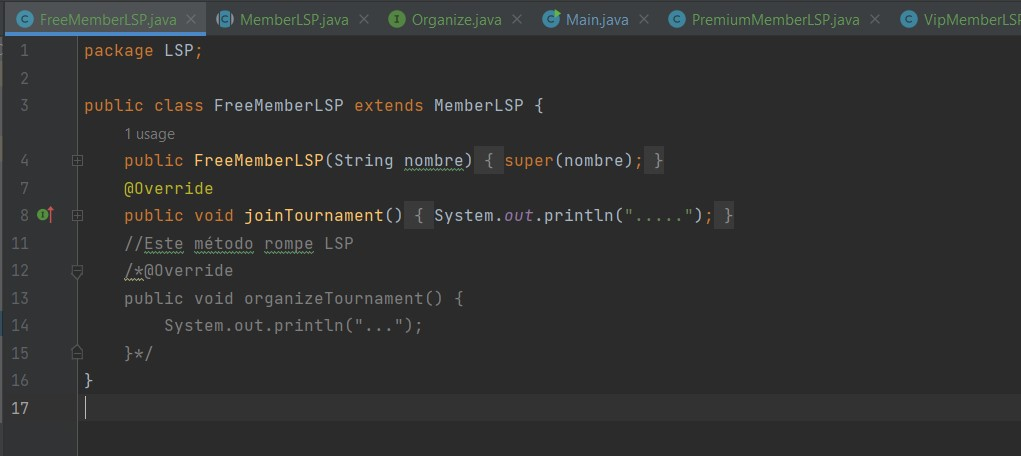
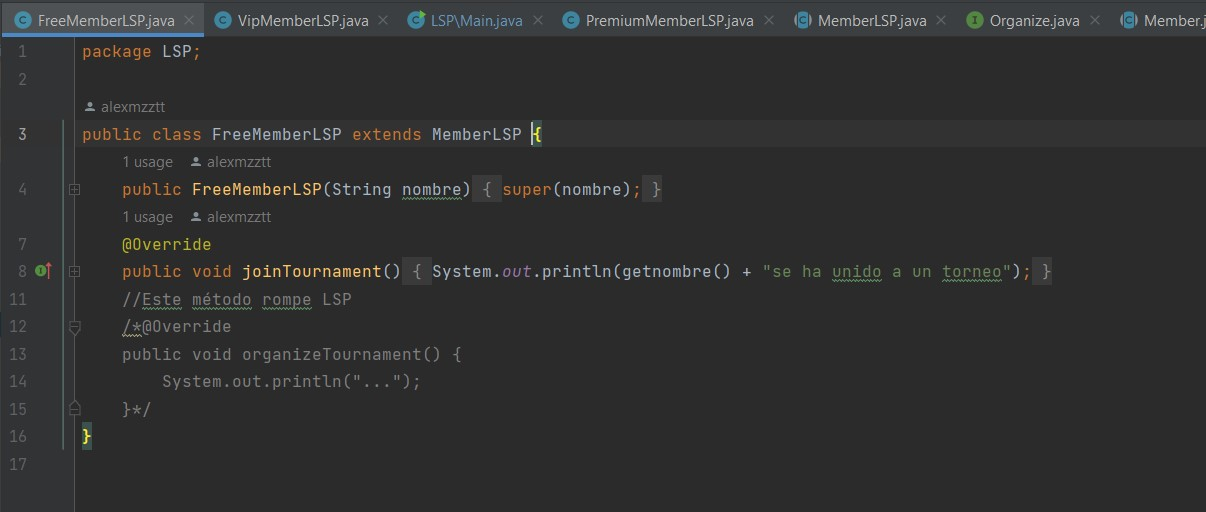
update

diff --git a/Actividades/ExamenFinal-3S2/Pregunta1/src/main/java/LSP/PremiumMemberLSP.java b/Actividades/ExamenFinal-3S2/Pregunta1/src/main/java/LSP/PremiumMemberLSP.java
@@ -7,11 +7,11 @@ public class PremiumMemberLSP extends MemberLSP implements Organize {
 
     @Override
     public void joinTournament() {
-        System.out.println(getnombre() + "se ha unido a un torneo");
+        System.out.println(getnombre() + "se puede unir a un torneo");
     }
 
     @Override
     public void organizeTournament() {
-        System.out.println(getnombre() + "ha organizado un torneo");
+        System.out.println(getnombre() + "puede organizar un torneo");
     }
 }

diff --git a/Actividades/ExamenFinal-3S2/Pregunta1/src/main/java/LSP/VipMemberLSP.java b/Actividades/ExamenFinal-3S2/Pregunta1/src/main/java/LSP/VipMemberLSP.java
@@ -7,11 +7,11 @@ public class VipMemberLSP extends MemberLSP implements Organize {
 
     @Override
     public void joinTournament() {
-        System.out.println(getnombre() + "se ha unido a un torneo");
+        System.out.println(getnombre() + "se puede unir a un torneo");
     }
 
     @Override
     public void organizeTournament() {
-        System.out.println(getnombre() + "ha organizado un torneo");
+        System.out.println(getnombre() + "puede organizar un torneo");
     }
 }

diff --git a/Actividades/ExamenFinal-3S2/Pregunta1/src/main/java/LSP/Main.java b/Actividades/ExamenFinal-3S2/Pregunta1/src/main/java/LSP/Main.java
@@ -15,7 +15,7 @@ public class Main {
 
         }
 
-        List<Organize> member = List.of(
+        List<Organize> members = List.of(
                 new PremiumMemberLSP("Abejita Azul"),
                 new VipMemberLSP("Kaperucita Feliz")
         );
@@ -32,3 +32,10 @@ public class Main {
 
 
 }
+
+
+
+
+
+
+

diff --git a/Actividades/ExamenFinal-3S2/Pregunta1/src/main/java/LSP/FreeMemberLSP.java b/Actividades/ExamenFinal-3S2/Pregunta1/src/main/java/LSP/FreeMemberLSP.java
@@ -6,7 +6,7 @@ public class FreeMemberLSP extends MemberLSP {
     }
     @Override
     public void joinTournament() {
-        System.out.println(getnombre() + "se ha unido a un torneo");
+        System.out.println(getnombre() + "se puede unir a un torneo");
     }
     //Este método rompe LSP
     /*@Override

diff --git a/Actividades/ExamenFinal-3S2/Pregunta1/README.md b/Actividades/ExamenFinal-3S2/Pregunta1/README.md
@@ -60,6 +60,13 @@ Clase VipMemberLSP:
 
 ![](assets/12.jpg)
 
+Main:
+
+![](assets/13.jpg)
+
+Ahora ejecutamos y mostramos el resultado:
+
+![](assets/15.jpg)
 
 
 
